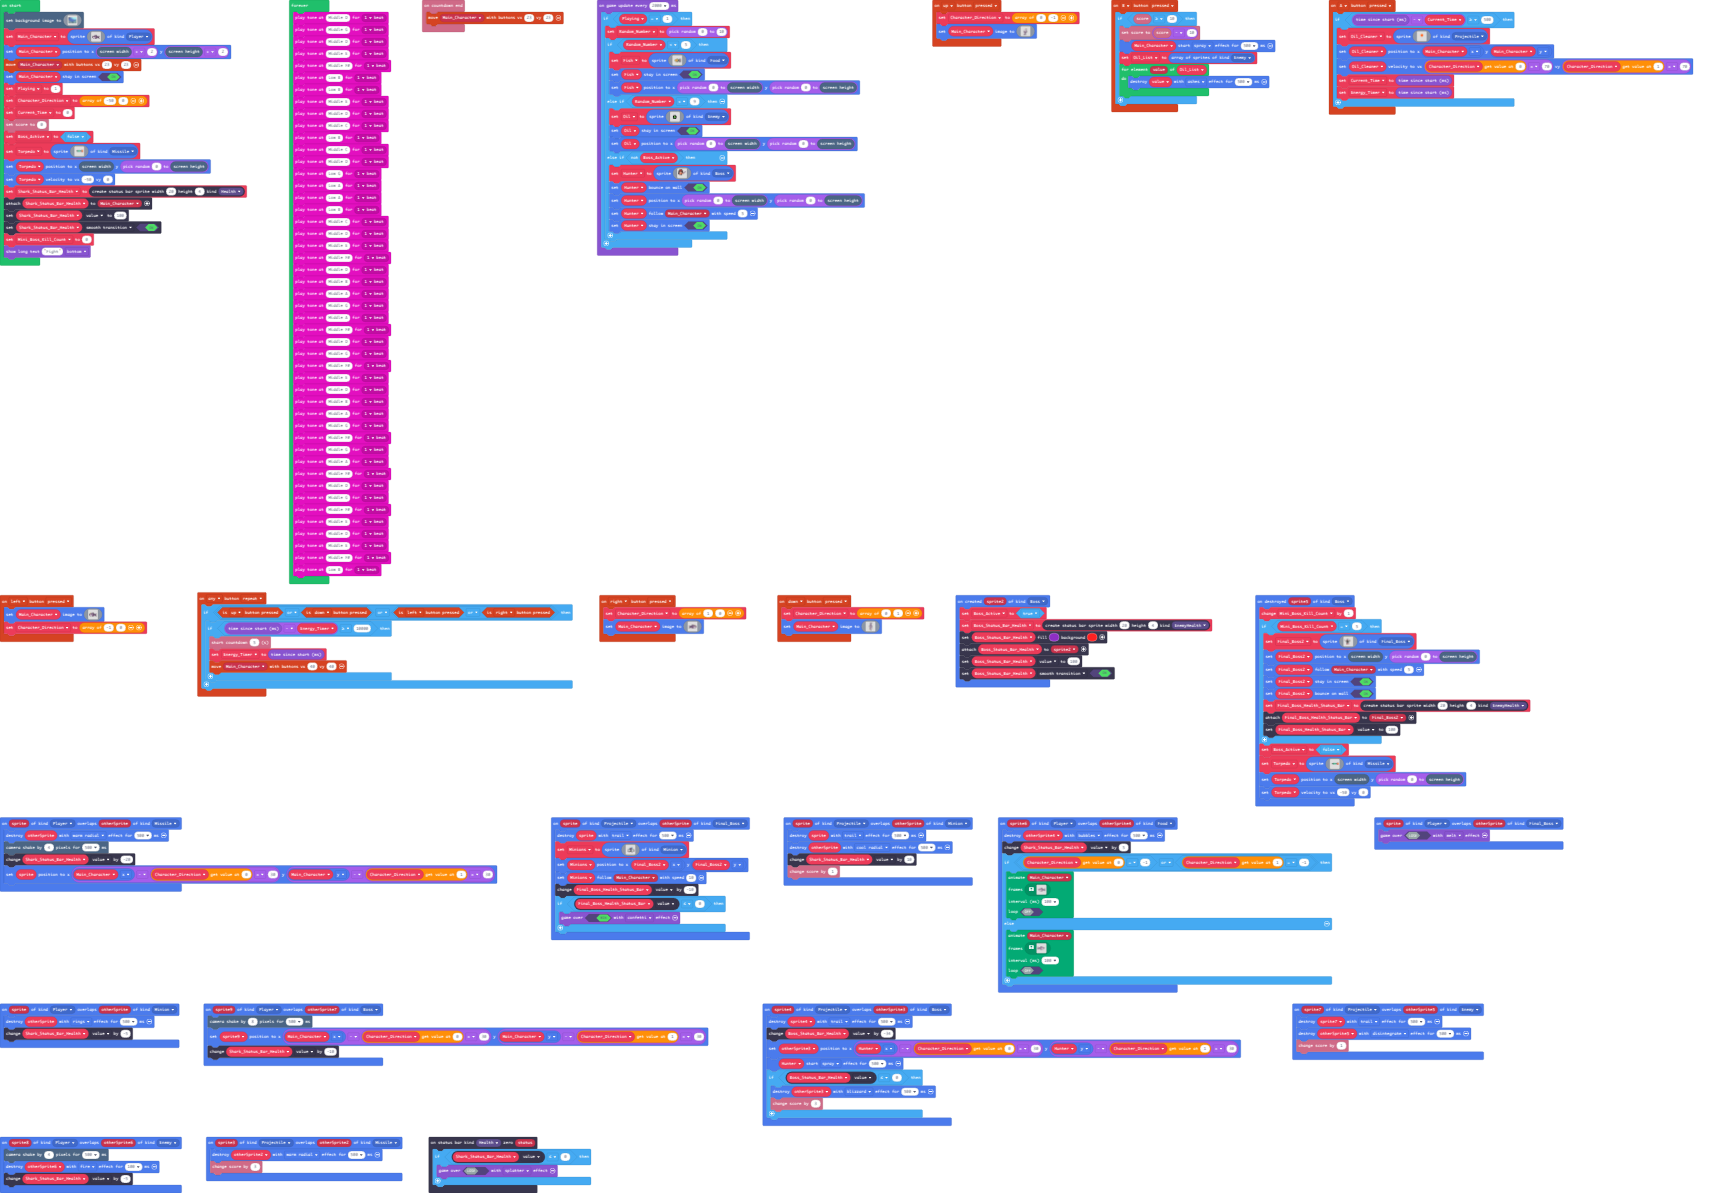
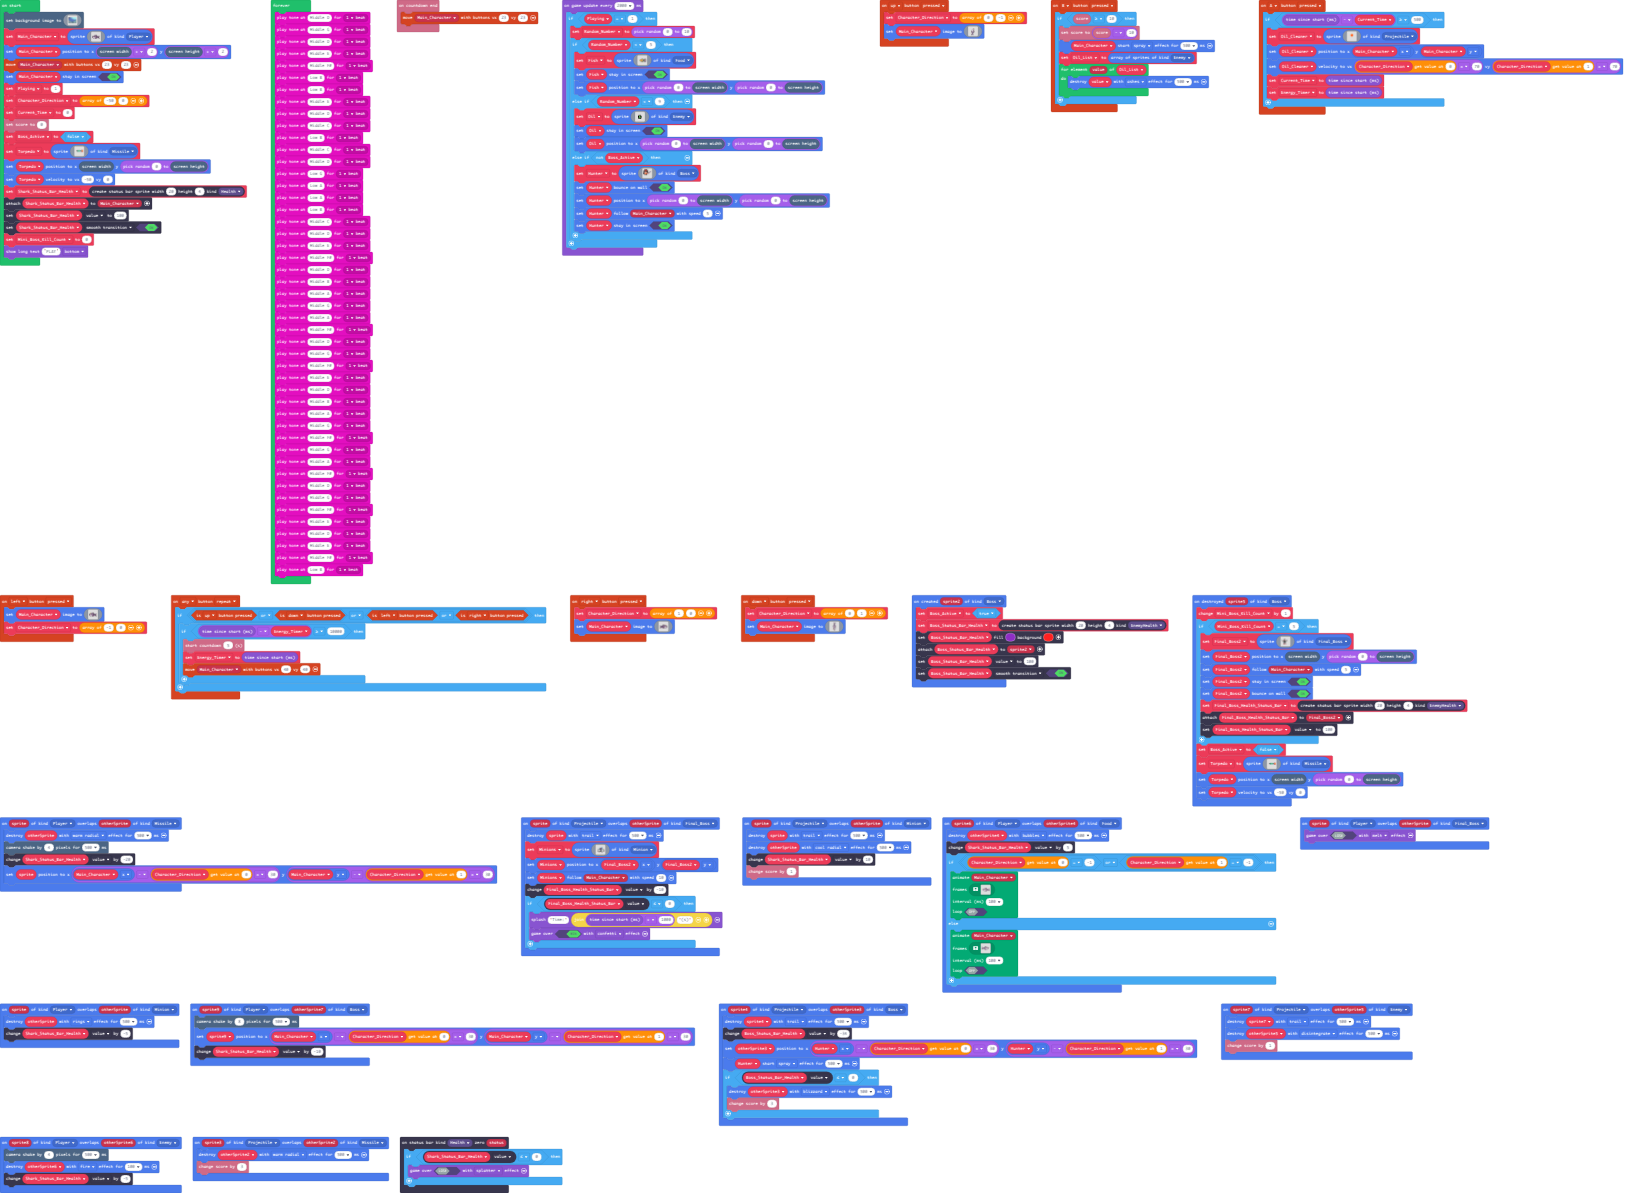
Added time when win event occurs

diff --git a/main.ts b/main.ts
@@ -64,6 +64,7 @@ sprites.onOverlap(SpriteKind.Projectile, SpriteKind.Final_Boss, function (sprite
     Minions.follow(Main_Character, 10)
     Final_Boss_Health_Status_Bar.value += -10
     if (Final_Boss_Health_Status_Bar.value <= 0) {
+        game.splash("Time:", "" + game.runtime() / 1000 + "(s)")
         game.over(true, effects.confetti)
     }
 })
@@ -237,7 +238,7 @@ Shark_Status_Bar_Health.attachToSprite(Main_Character)
 Shark_Status_Bar_Health.value = 100
 Shark_Status_Bar_Health.setStatusBarFlag(StatusBarFlag.SmoothTransition, true)
 Mini_Boss_Kill_Count = 0
-game.showLongText("Fight", DialogLayout.Bottom)
+game.showLongText("PLAY", DialogLayout.Bottom)
 game.onUpdateInterval(2000, function () {
     if (Playing == 1) {
         Random_Number = randint(0, 10)
